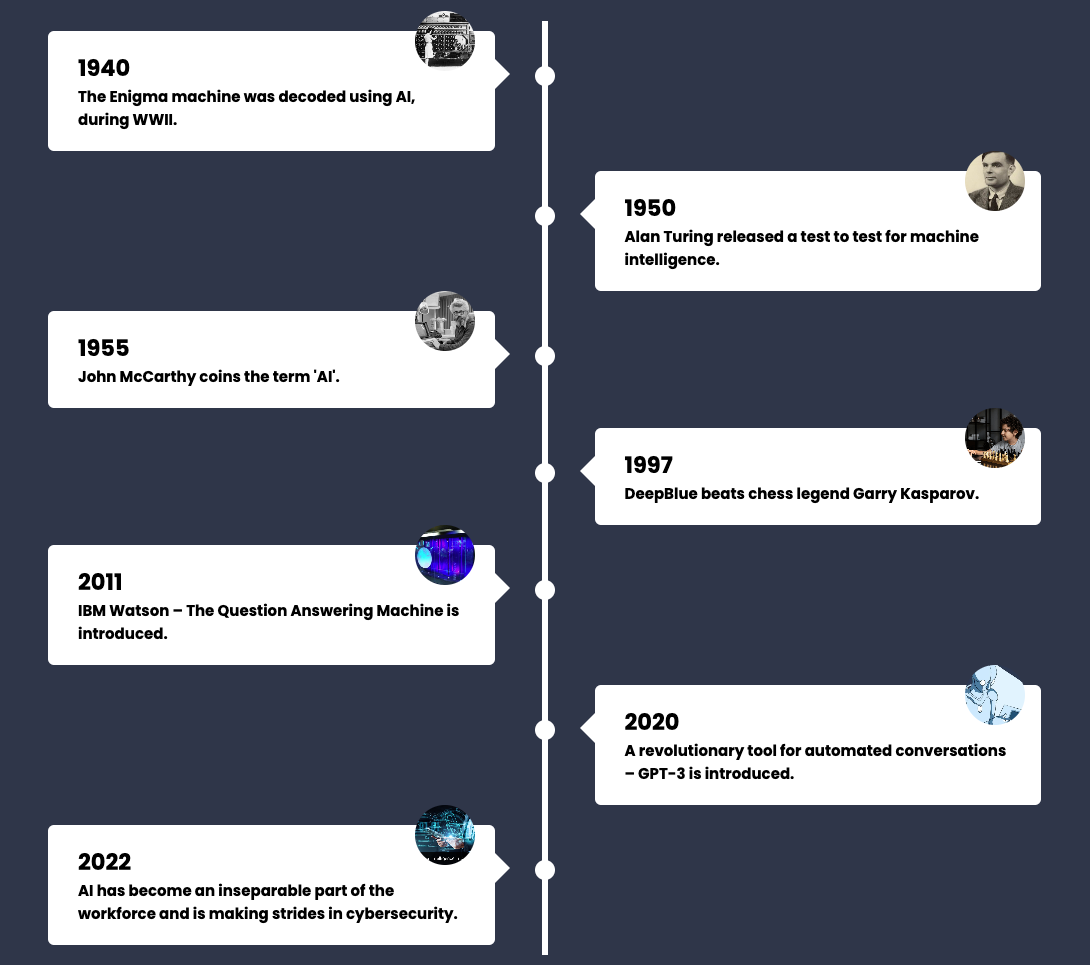
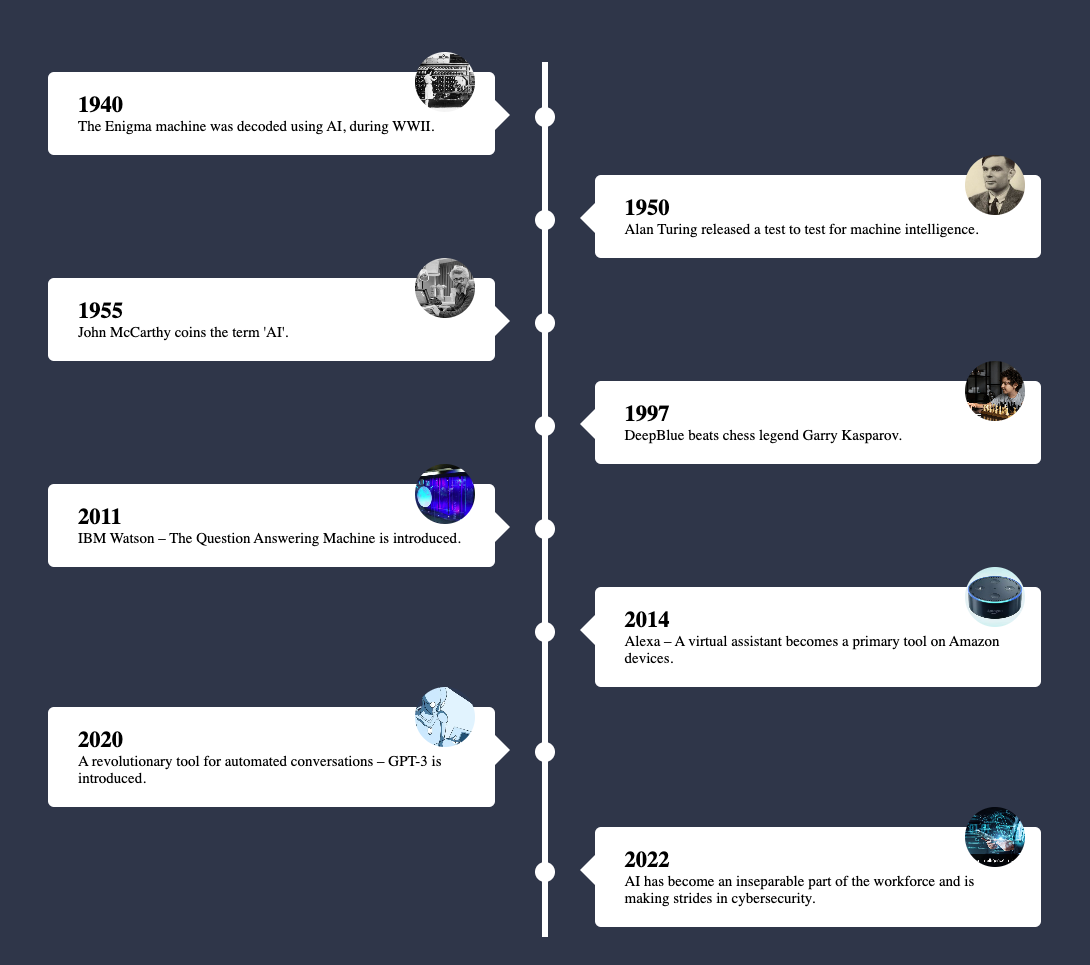
add one more timeframe

diff --git a/style.css b/style.css
@@ -1,7 +1,7 @@
 *{
     margin:0;
     padding:0;
-    font-family: 'Poppins', sans-serif;
+    /* font-family: 'Poppins', sans-serif; */
     box-sizing: border-box;
 }
 body{
@@ -49,6 +49,9 @@ body{
 }
 .container:nth-child(7){
     animation-delay: 6s;
+}
+.container:nth-child(8){
+    animation-delay: 7s;
 }
 
 .text-box{
